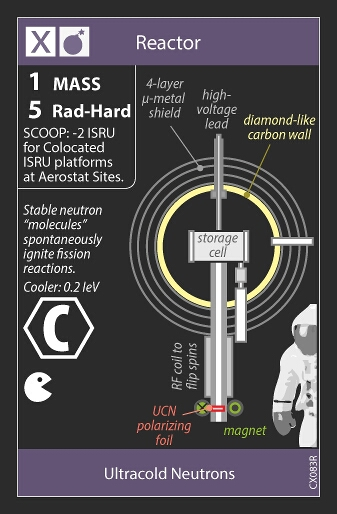
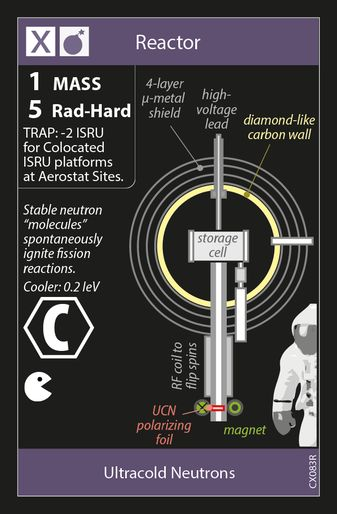
updated errata card images

diff --git a/index.html b/index.html
@@ -163,12 +163,12 @@
         NOTES[CREW][5] = "<h6><b>Note G1c:</b> Crew dirt thrusters are limited by one fuel tank during a factory or ISRU once-per-turn free action.</h6>";
         NOTES[CREW][5] += "<h6><b>Marketeer:</b> With this faction privilege, you always win auction ties (I2e), even if you are not the initiator.</h6>";
 
-        NOTES[REACTOR][1] = "<h6><b>Project Valkyrie:</b> Only Decommissions cards in its Stack.</h6>";
+        //NOTES[REACTOR][1] = "<h6><b>Project Valkyrie:</b> Only Decommissions cards in its Stack.</h6>";
 
-        NOTES[REFINERY][3] = "<h6><b>Atmospheric Scoop:</b> Adjacent/Colocated aerostat sites gain 2 hydration for prospecting and refuel.</h6>";
+        //NOTES[REFINERY][3] = "<h6><b>Atmospheric Scoop:</b> Adjacent/Colocated aerostat sites gain 2 hydration for prospecting and refuel.</h6>";
 
-        NOTES[ROBONAUT][5] = "<h6><b>MagBeam errata:</b> If pushed by Powersat: ISRU = 2 & base thrust = 6.</h6>";
-        NOTES[ROBONAUT][11] = "<h6><b>Lorentz-propelled Microprobe:</b> Reroll only applies to itself.</h6>";
+        //NOTES[ROBONAUT][5] = "<h6><b>MagBeam errata:</b> If pushed by Powersat: ISRU = 2 & base thrust = 6.</h6>";
+        //NOTES[ROBONAUT][11] = "<h6><b>Lorentz-propelled Microprobe:</b> Reroll only applies to itself.</h6>";
        
         NOTES[COLONIST][0] = "<h6><b>New Venus Future (errata fix):</b> Req = Decommission this card and an Operational thruster with net thrust 7+ on an Industrialized Synodic Comet of yours. Effects = Bust both Venus and the Comet and Decommission all their tokens & unanchor any Bernals (represents the drop in property values prior to the comet-Venus collision), 12 VP.  Note: If this Future is completed, for thematic effect (with no game effect unless play is continued beyond the endgame), place the Venus overlay card (V8b) to show how New Venus will eventually appear.</h6>";
         NOTES[COLONIST][0] += "<h6><b>M3 Note on New Venus Future (1D5a, 3F2g):</b> Use the dislodge operation (3D7) to complete these Futures. Completion allows you to convert any Synodic Comet into a synodic dropstone, in which you do not need to pay a bribe.</h6>";
